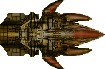
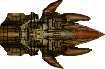
Rotation on bounds fixed! :D loooks awezome

diff --git a/ProjectHorse/src/resources/ImageLoader.java b/ProjectHorse/src/resources/ImageLoader.java
@@ -23,6 +23,7 @@ public class ImageLoader {
     BufferedImage asteroid1;
     BufferedImage spaceship1;
     BufferedImage laserblue1;
+    BufferedImage engineparticlered;
 
     public BufferedImage getAsteroidImage(){
         asteroid1 = getImage(asteroid1, "asteroid2.png");
@@ -40,6 +41,12 @@ public class ImageLoader {
         return laserblue1;
     }
 
+    public BufferedImage getEngineParticleImage(){
+        //check what type and return for that
+        engineparticlered = getImage(engineparticlered, "engineparticlered.png");
+        return engineparticlered;
+    }
+
     private BufferedImage getImage(BufferedImage bf, String path){
         if(bf == null){
             bf = load(path, bf);
@@ -48,11 +55,7 @@ public class ImageLoader {
         return bf;
     }
 
-    public BufferedImage getEngineParticleImage(){
-        //check what type and return for that
-        laserblue1 = getImage(laserblue1, "laserblue1.png");
-        return laserblue1;
-    }
+
 
     public BufferedImage load(String path, BufferedImage bf){
         try {

diff --git a/ProjectHorse/src/model/background/EngineParticle.java b/ProjectHorse/src/model/background/EngineParticle.java
@@ -26,6 +26,9 @@ public class EngineParticle extends Particle {
         this.setRotationAngle(Randomizer.randomDouble(0,10));
 
         this.coordinate = new Coordinate(p.getCoordinate());
+
+        this.coordinate.setX(coordinate.getX() - Math.cos(p.getRotationAngle()) * p.getWidth()/2);
+        this.coordinate.setY(coordinate.getY() - Math.sin(p.getRotationAngle()) * p.getHeight()/2);
         this.zoneCoordinate = new ZoneCoordinate(p.getZoneCoordinate());
 
     }

diff --git a/ProjectHorse/src/model/GameModel.java b/ProjectHorse/src/model/GameModel.java
@@ -130,7 +130,9 @@ public class GameModel extends Observable {
     }
 
     public void spawnEngineParticle(){
-        world.addWorldObject(new EngineParticle(player));
+        EngineParticle ep = new EngineParticle(player);
+        ep.updateZone(ZONE_SIZE);
+        world.addWorldObject(ep);
     }
 
     public void spawnAsteroid(){

diff --git a/ProjectHorse/src/model/world/WorldObject.java b/ProjectHorse/src/model/world/WorldObject.java
@@ -21,6 +21,7 @@ public abstract class WorldObject extends AbstractGameObject implements Boundabl
     protected ZoneCoordinate zoneCoordinate;
     protected double rotationAngle;
     protected double width = 15, height = 1;
+    protected int z = 0;
 
     protected WorldObjectState state = WorldObjectState.ALIVE;
 
